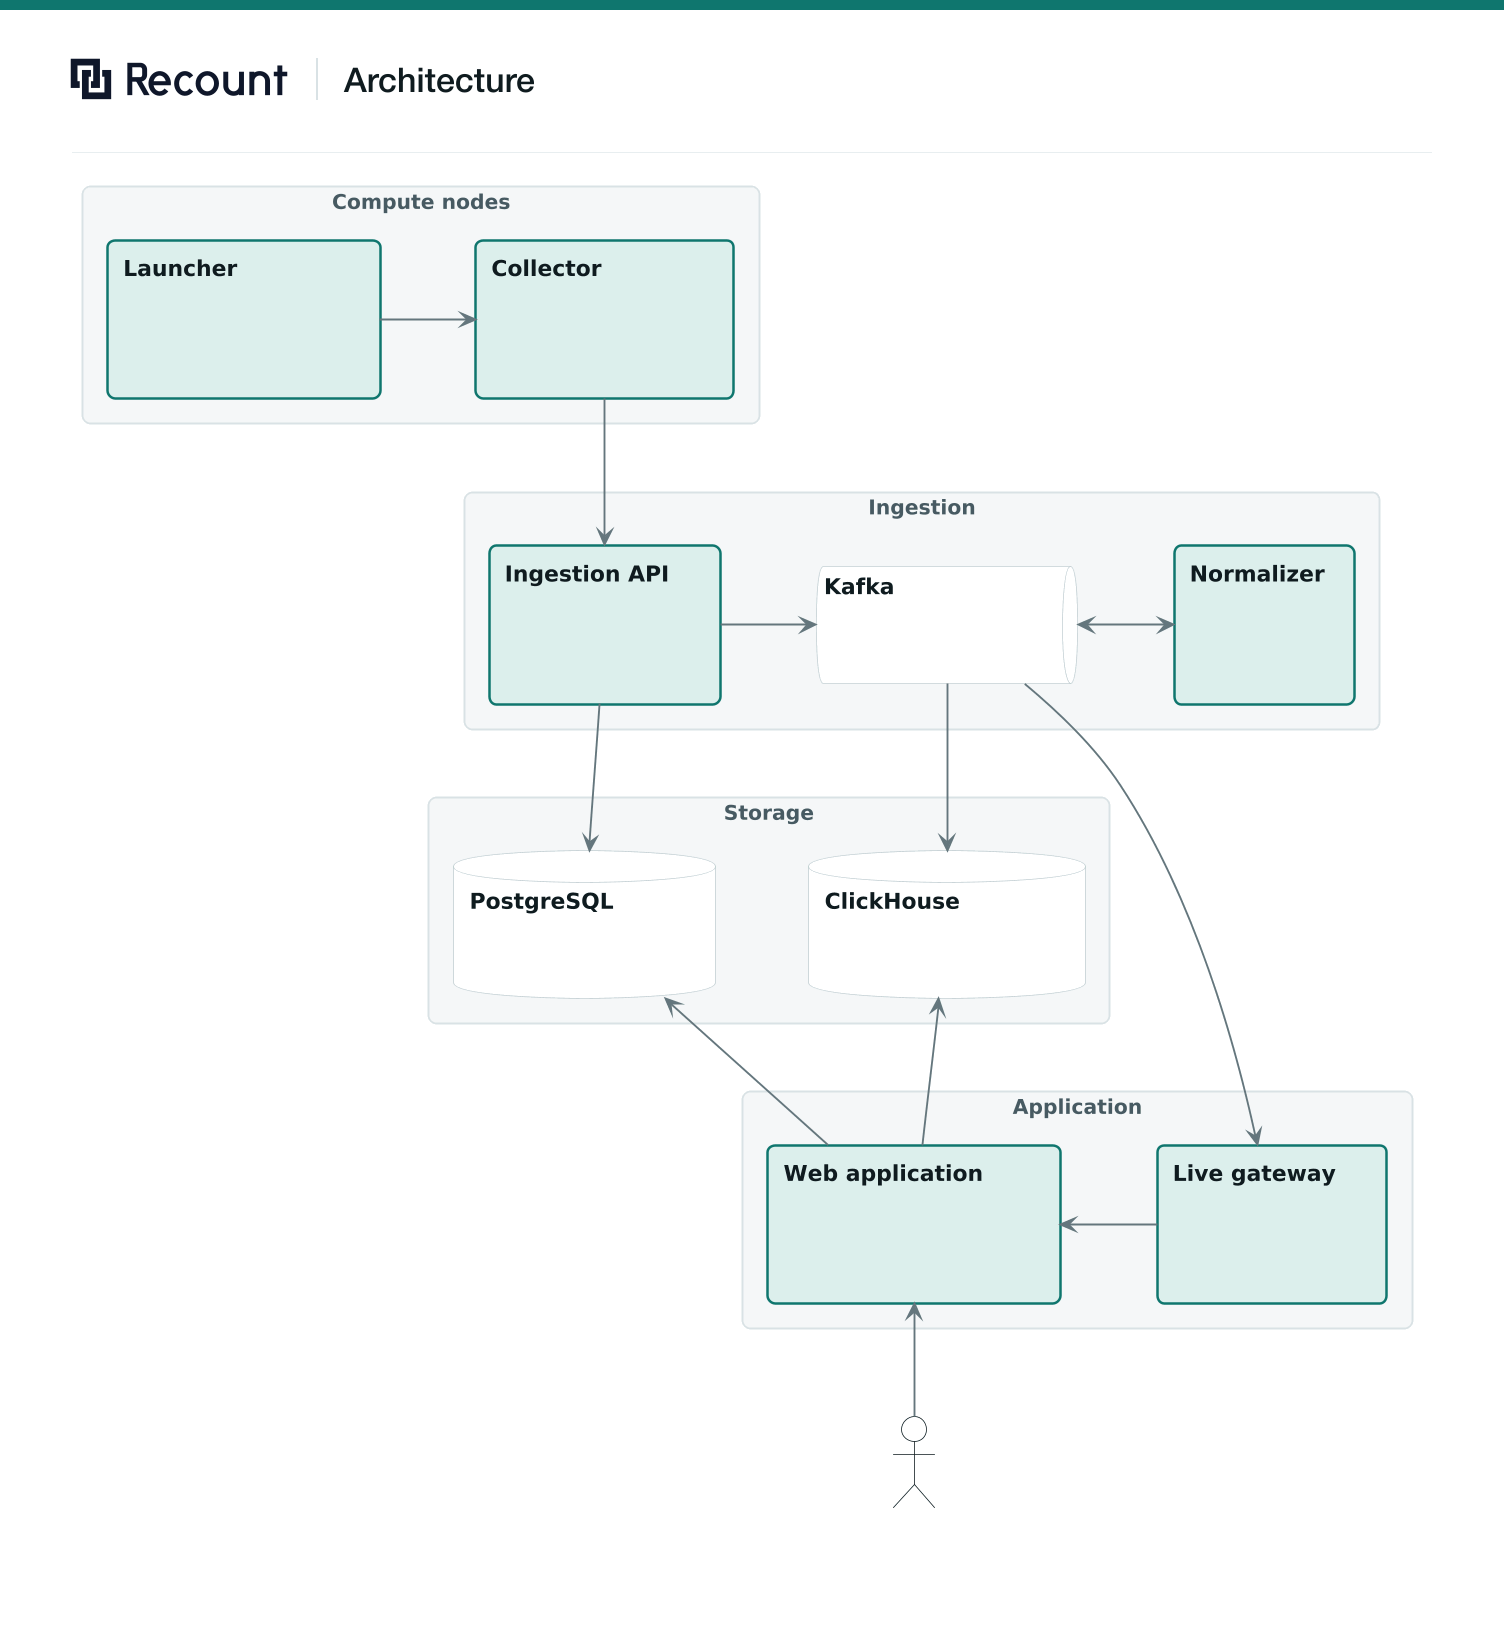
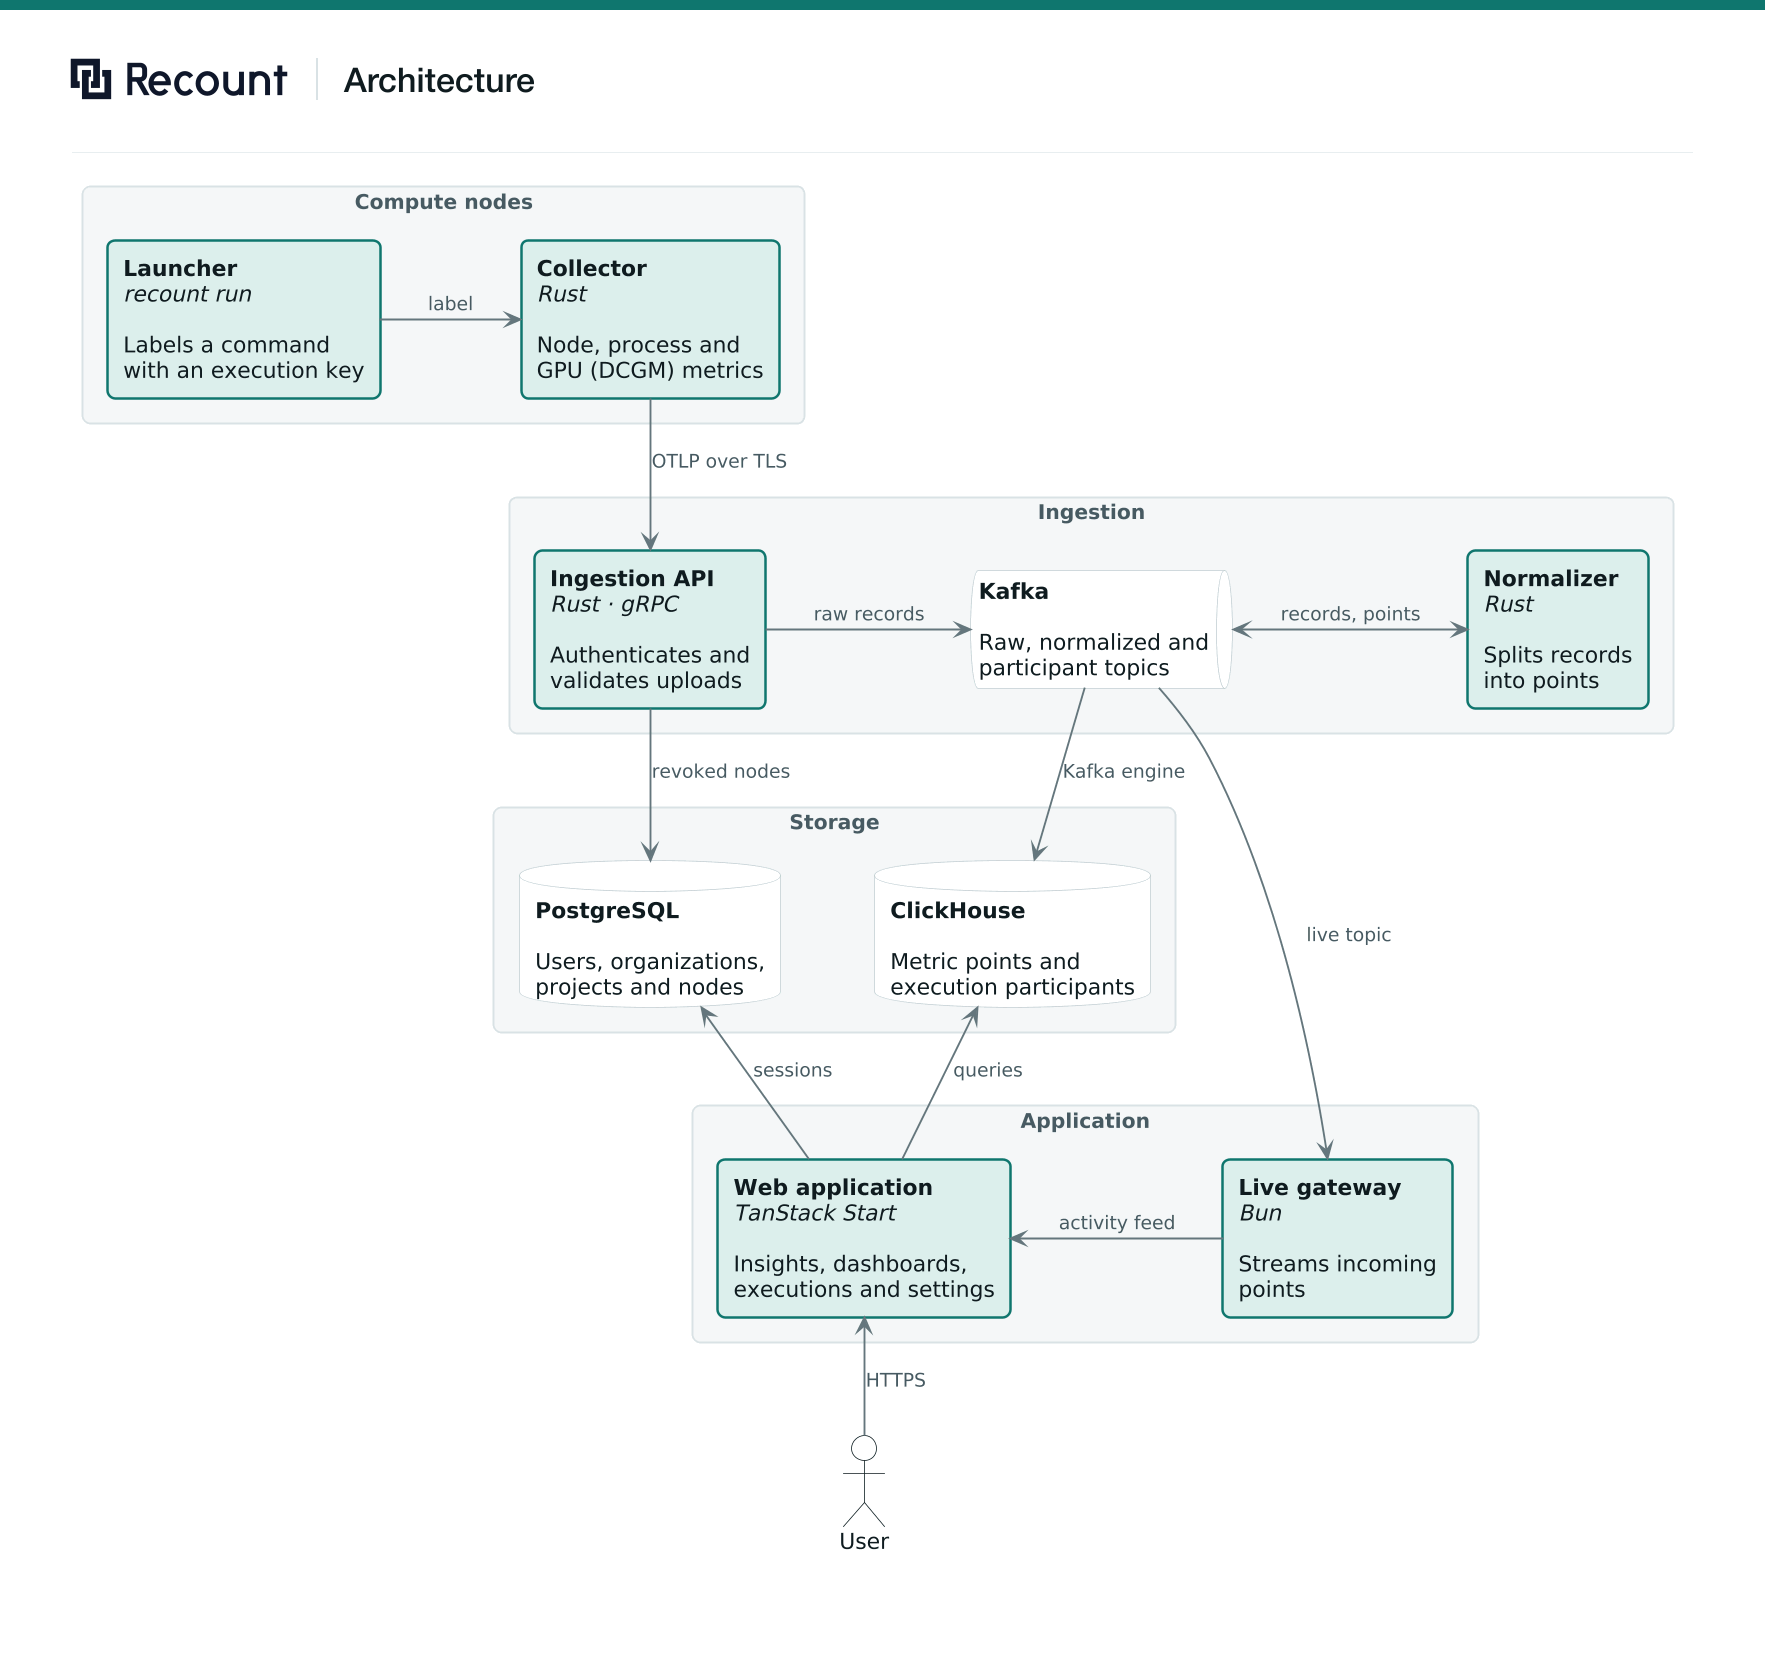
docs: simplify the architecture diagrams

diff --git a/docs/architecture.md b/docs/architecture.md
@@ -75,6 +75,5 @@ PlantUML sources share the Recount styling in `diagram-style.iuml`; teal boxes a
 | [current-architecture](current-architecture.puml)     | Components and their connections                   |
 | [deployment](deployment.puml)                         | Where each component runs                          |
 | [telemetry-flow](telemetry-flow.puml)                 | One upload from collector to dashboard             |
-| [telemetry-retry](telemetry-retry.puml)               | A retried upload stored once                       |
 | [execution-participants](execution-participants.puml) | How a labelled process joins an execution          |
 | [application-access](application-access.puml)         | Organizations, projects, roles and their resources |
